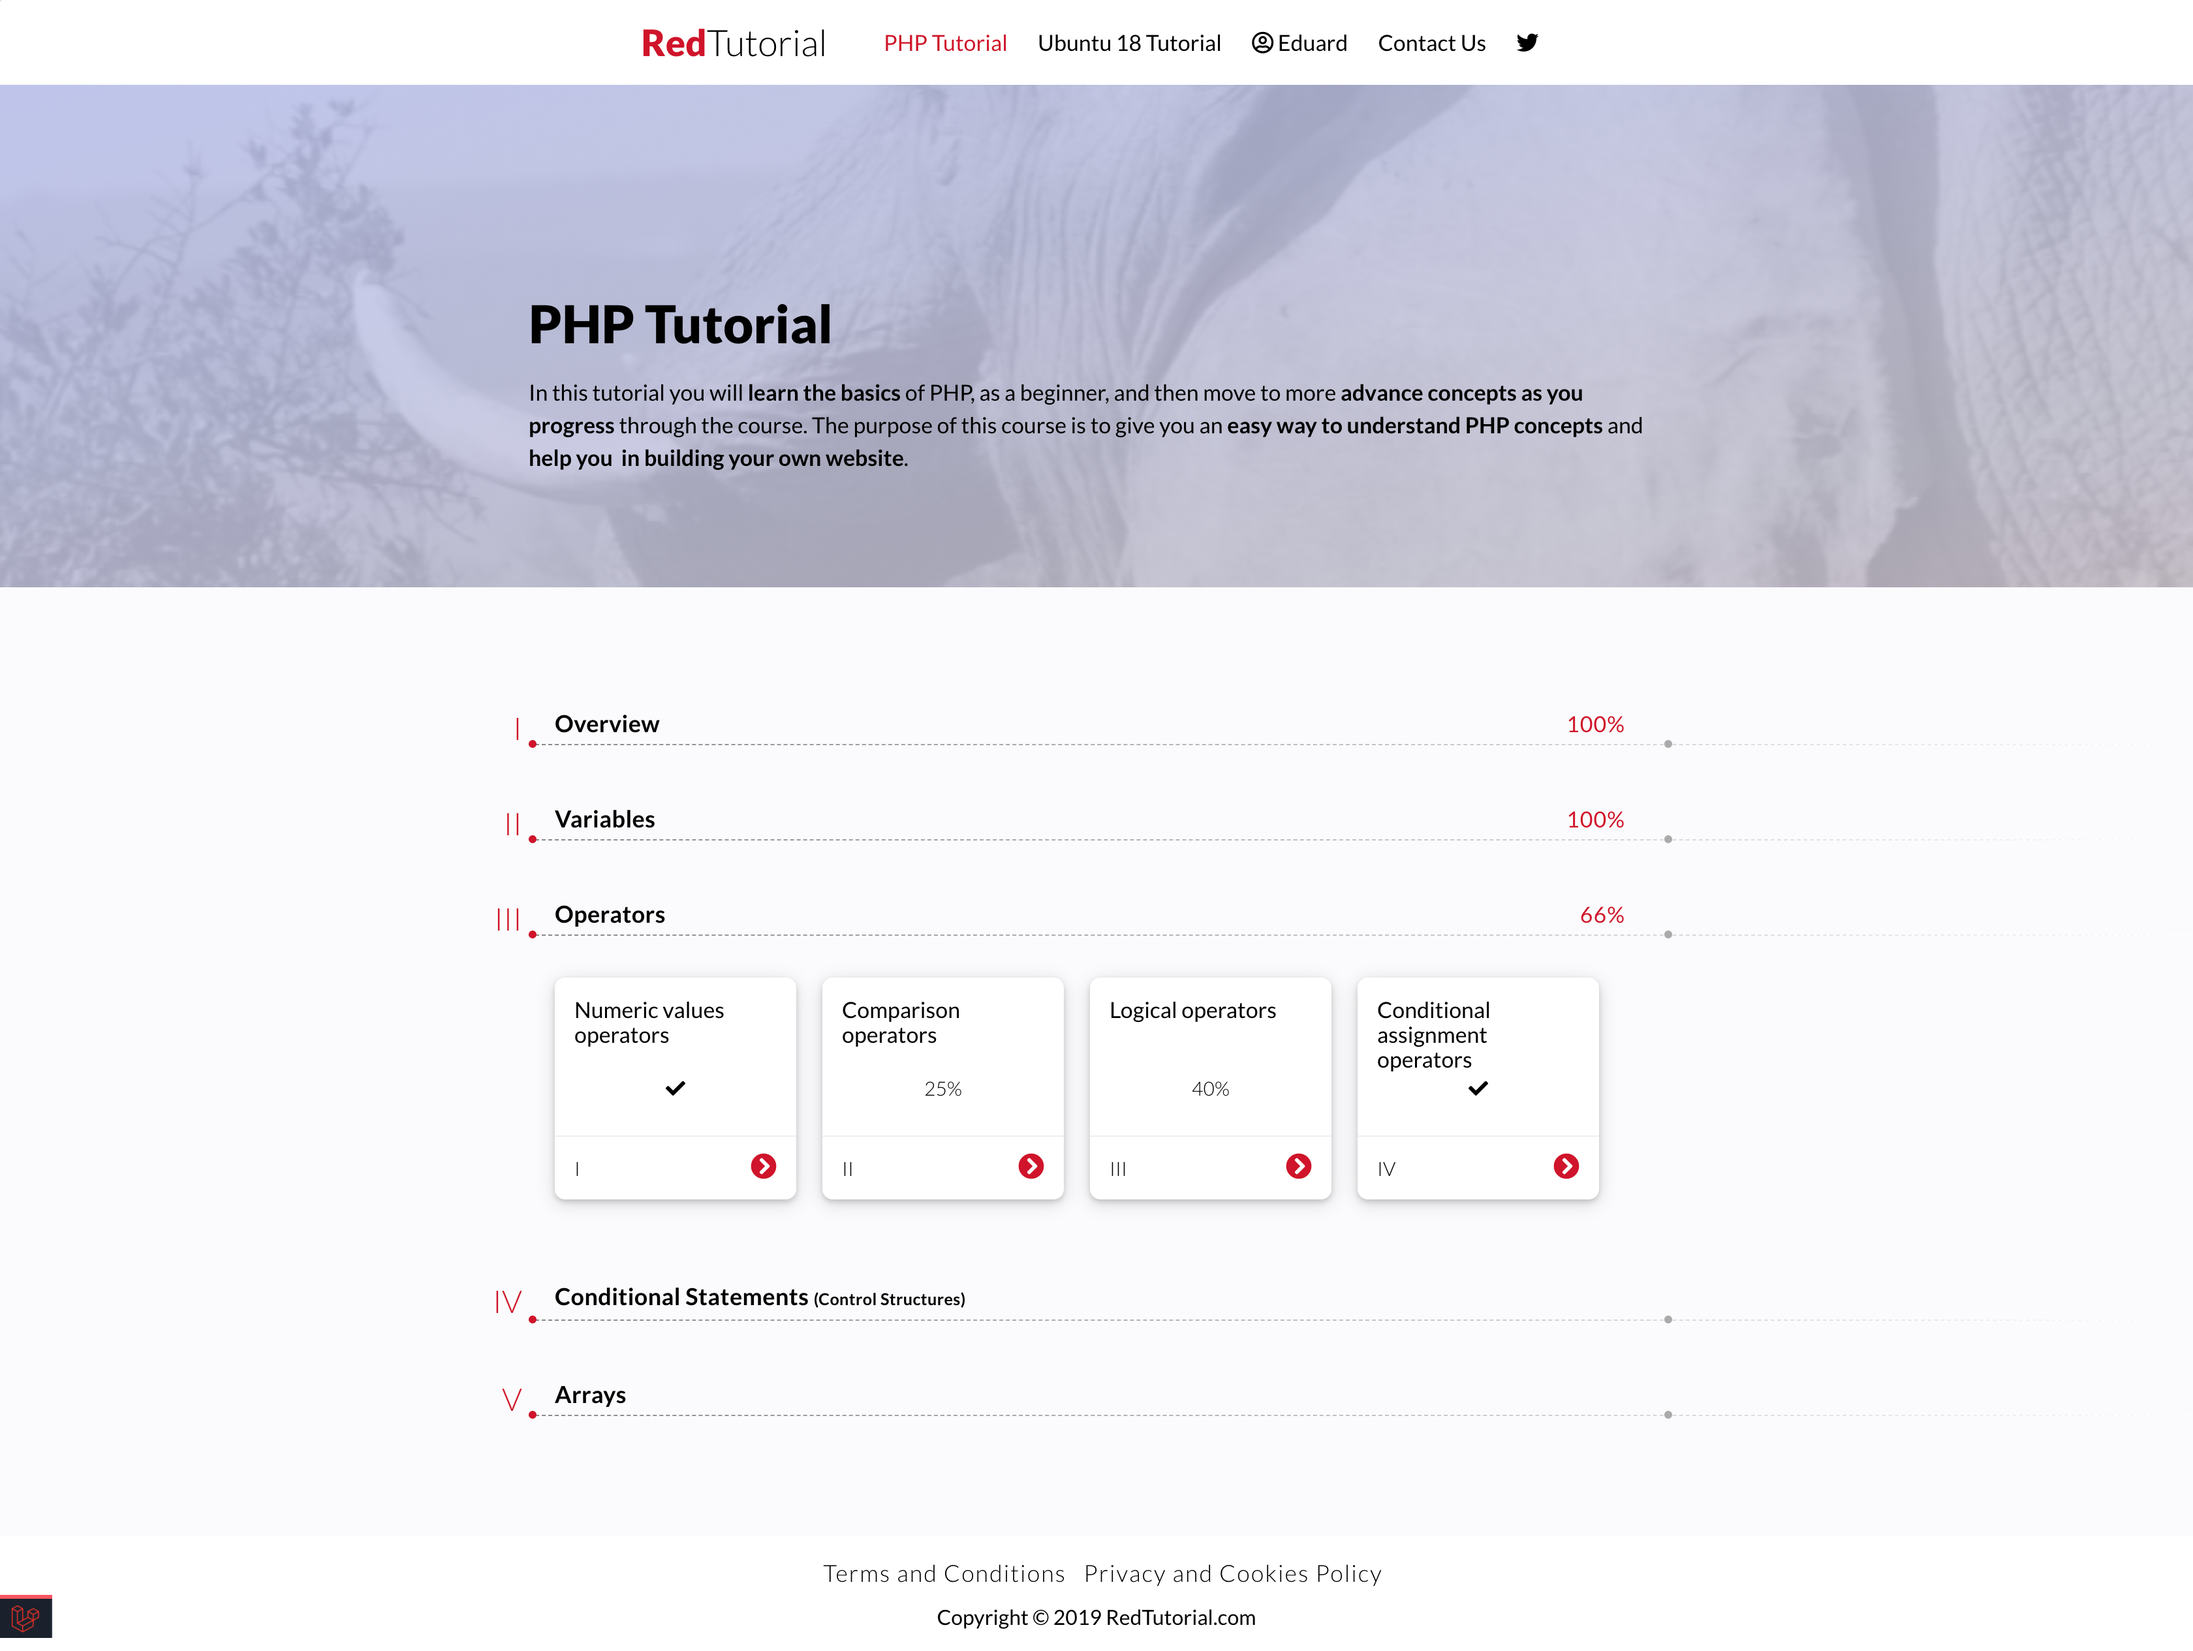
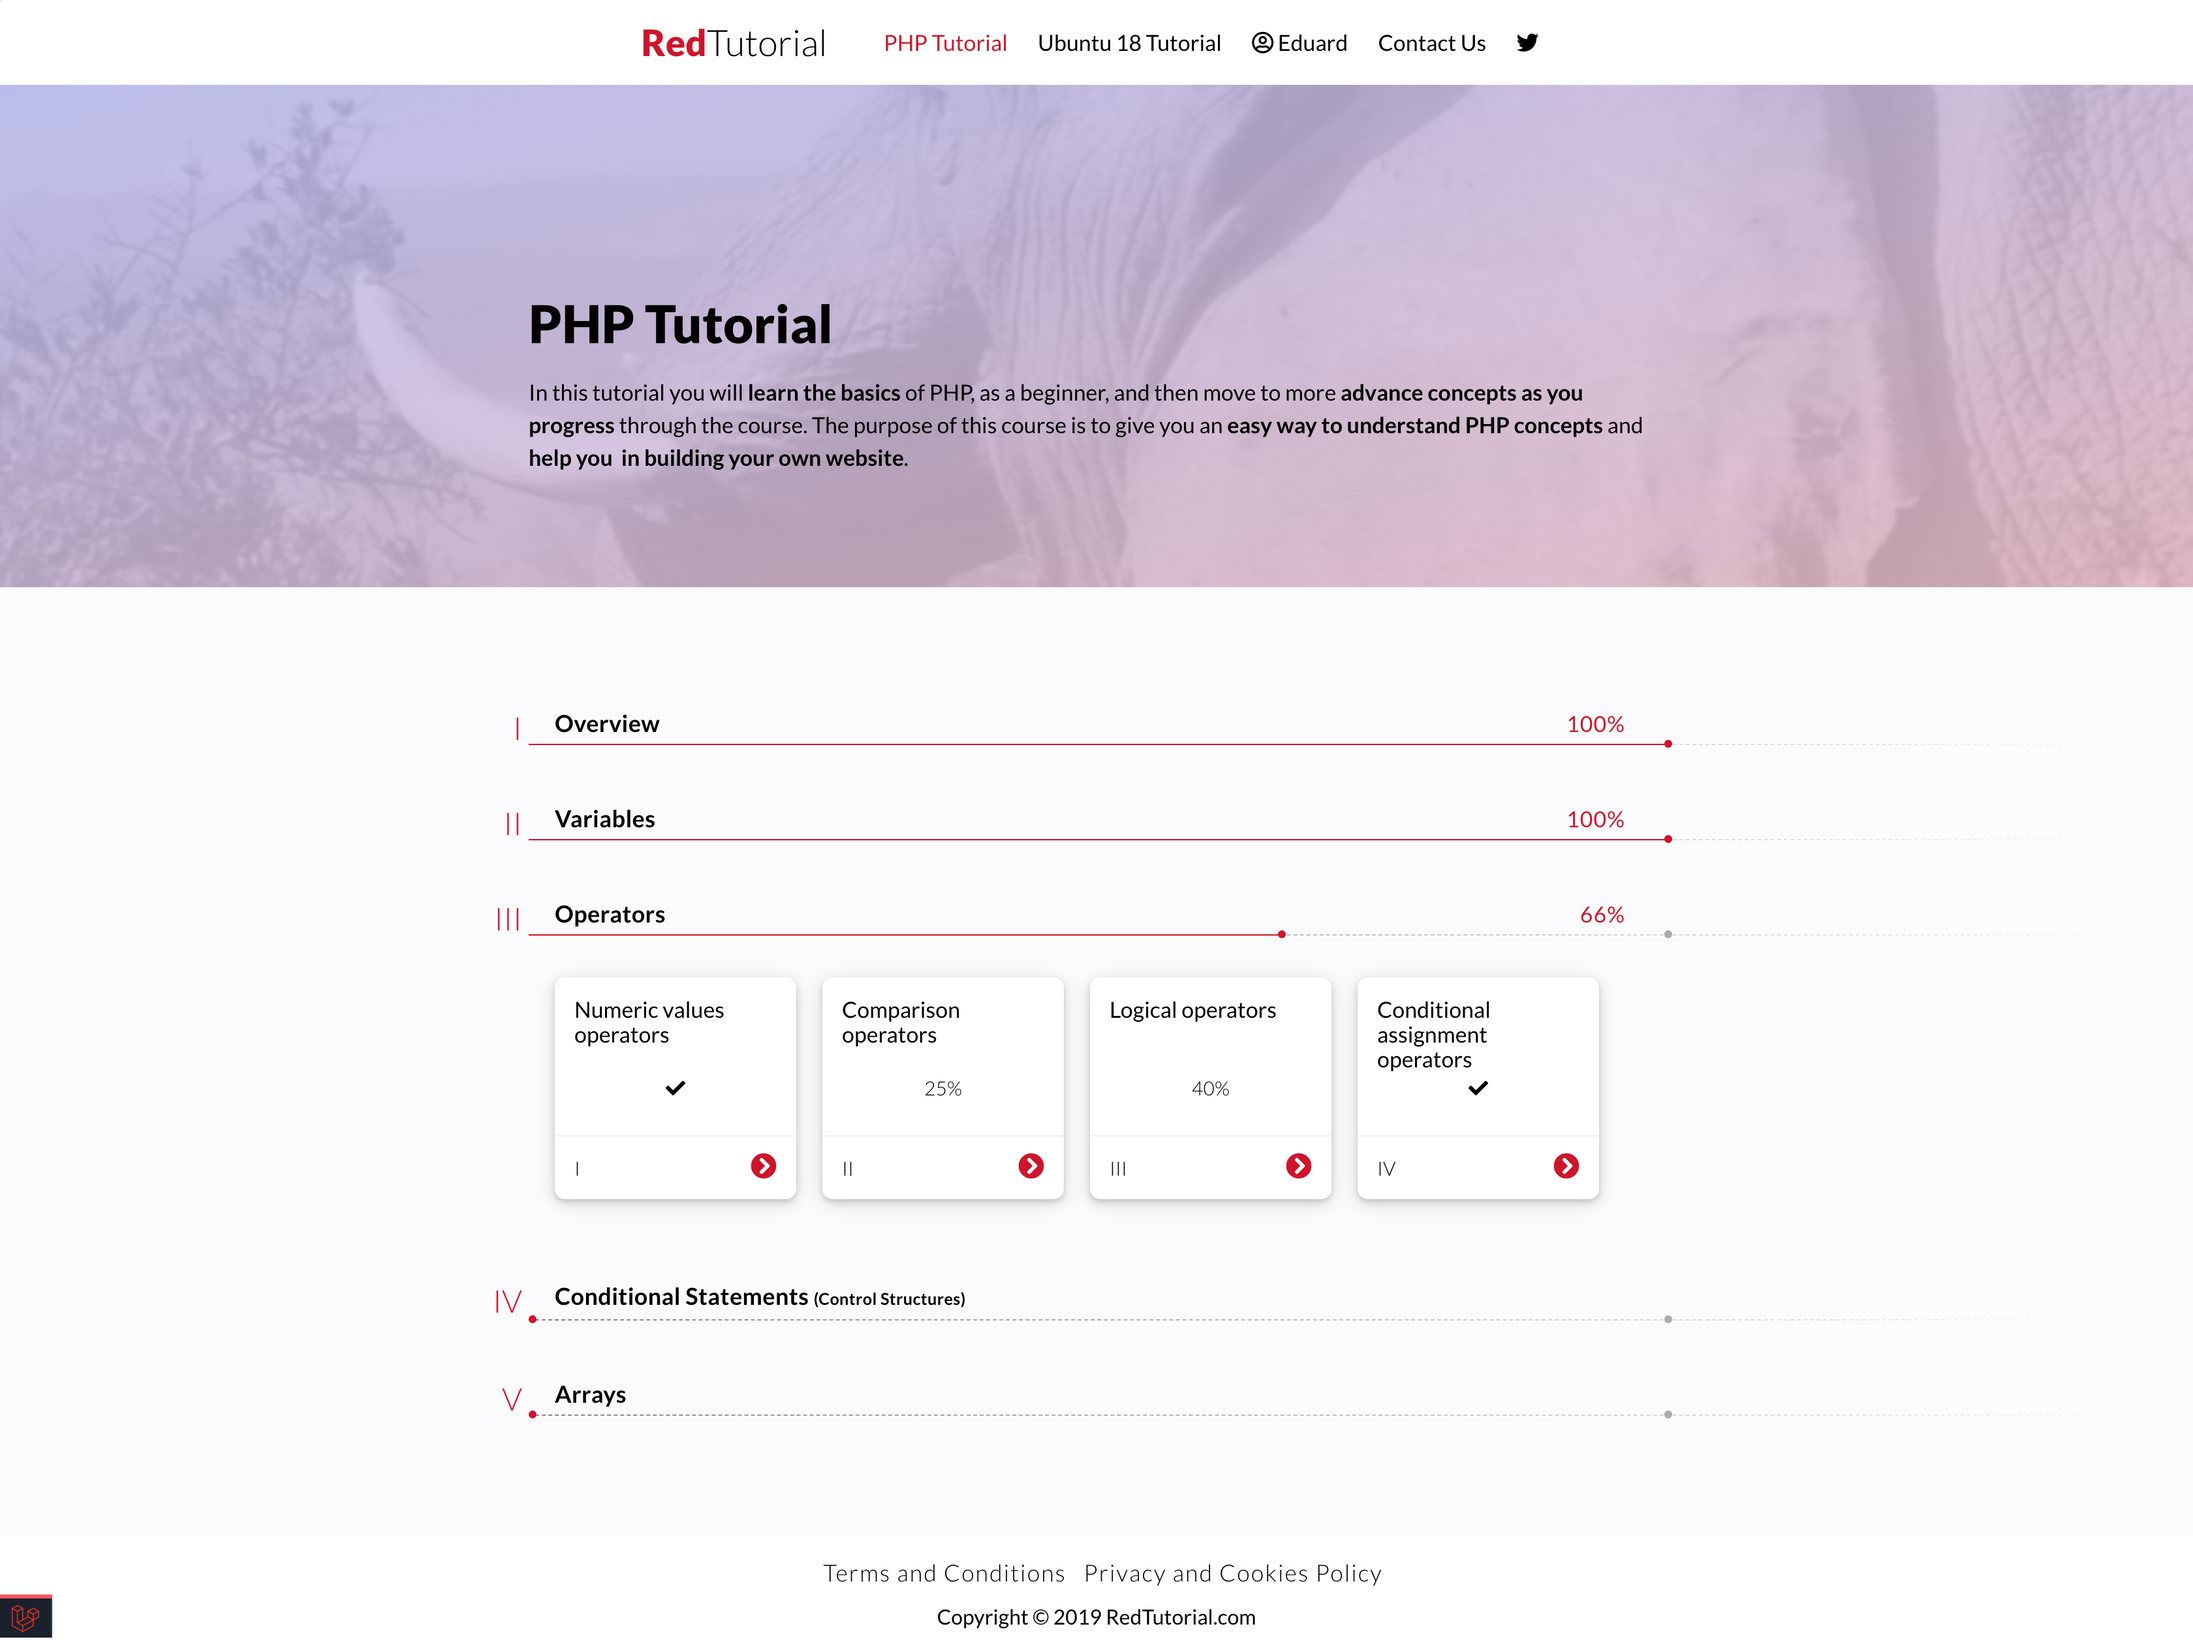
readme update

Changed region(s): [[0.9062, 0.3124, 1.0, 0.3749], [0.625, 0.6248, 0.6562, 0.656]]

diff --git a/resources/views/tutorials/chapters.blade.php b/resources/views/tutorials/chapters.blade.php
@@ -37,7 +37,7 @@
             <div class="list-container content">
                 <ol class="chapters-list">
                 @foreach($course->publicChapters as $index => $chapter)
-                    <x-client.chapter-status-wrapper :status="$status_chapters[$chapter->id]">
+                    <x-client.chapter-status-wrapper :status="$status_chapters[$chapter->id] ?? 0">
                         <x-slot name="chapter_content">
                             <span class="option" >
                                 <span class="course-number">
@@ -45,8 +45,8 @@
                                 </span>
                                 <div class="top-level" >
                                     <h2>{!! $chapter->name !!}</h2>
-                                    <span class="line-completion-indicator" style="width: {{$chapter->completion_percentage ?? 0}}%;"></span>
-                                    <span class="dot-completion-indicator" style="left: {{$chapter->completion_percentage ?? 0}}%;"></span>
+                                    <span class="line-completion-indicator" style="width: {{$status_chapters[$chapter->id] ?? 0}}%;"></span>
+                                    <span class="dot-completion-indicator" style="left: {{$status_chapters[$chapter->id] ?? 0}}%;"></span>
                                     <span class="route">
                                         <span class="inner-route"></span>
                                     </span>
